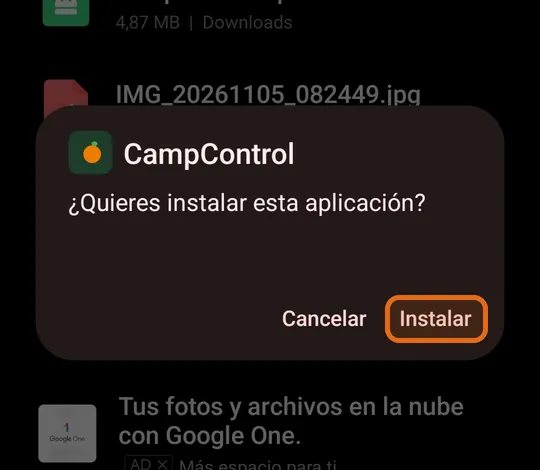
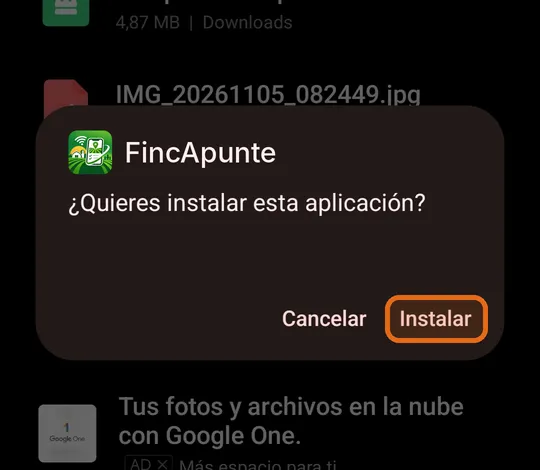
Web: guía de instalación con el nombre y el icono de FincApunte, y botón para volver a la web
- Capturas de instalación con el nombre FincApunte, el logo nuevo y la pantalla de entrada actual
- En la versión web de la app: «Volver a la web» en el menú, en la entrada y en el menú lateral del ordenador

Claude-Session: https://claude.ai/code/session_017KktMLWCZZJ4TYmkRk2J42

Changed region(s): [[0.1185, 0.2681, 0.563, 0.3872]]

diff --git a/web/index.html b/web/index.html
@@ -575,7 +575,7 @@ footer{border-top:1px solid var(--line);padding:48px 0 40px;margin-top:clamp(72p
       <ol class="guia" aria-label="Pasos para instalar FincApunte">
         <li>
           <figure><img src="img/instalar-paso-1.webp" width="540" height="920" loading="lazy" alt="Gestor de archivos, apartado Recientes, con el archivo de la app marcado"></figure>
-          <div><b>Abre el archivo descargado</b><span>Entra en el <strong>Gestor de archivos</strong>, ve a <strong>Recientes</strong> o <strong>Descargas</strong> y pulsa <strong>fincapunte.apk</strong> (en la captura sale con su nombre anterior).</span></div>
+          <div><b>Abre el archivo descargado</b><span>Entra en el <strong>Gestor de archivos</strong>, ve a <strong>Recientes</strong> o <strong>Descargas</strong> y pulsa <strong>fincapunte.apk</strong>.</span></div>
         </li>
         <li>
           <figure><img src="img/instalar-paso-2.webp" width="540" height="470" loading="lazy" alt="Ventana ¿Quieres instalar esta aplicación? con el botón Instalar marcado"></figure>
@@ -594,7 +594,7 @@ footer{border-top:1px solid var(--line);padding:48px 0 40px;margin-top:clamp(72p
           <div><b>Último aviso: cualquiera de los dos</b><span>En móviles <strong>Xiaomi, Redmi o Poco</strong> sale un aviso más de <strong>Mi Protect</strong>. Da igual que pulses <strong>Saltar</strong> o <strong>Analizar</strong>: las dos opciones terminan la instalación.</span></div>
         </li>
         <li>
-          <figure><img src="img/instalar-paso-6.webp" width="540" height="823" loading="lazy" alt="Pantalla de entrada de FincApunte con correo y contraseña"></figure>
+          <figure><img src="img/instalar-paso-6.webp" width="540" height="823" loading="lazy" alt="Pantalla de entrada de FincApunte con correo, contraseña y enlace a la política de privacidad"></figure>
           <div><b>Abre FincApunte y entra</b><span>Entra con tu correo y contraseña, o crea una cuenta. Acepta los permisos de cámara y ubicación para poder situar las fotos en el mapa.</span></div>
         </li>
       </ol>

diff --git a/www/js/escritorio.js b/www/js/escritorio.js
@@ -2,6 +2,14 @@
    Dentro de la APK no hace nada. */
 (() => {
   if (nativo()) return;
+
+  /* ---------- Volver a la web de presentación (solo en el navegador, en cualquier tamaño) ---------- */
+  const WEB = '../';
+  const flecha = '<svg viewBox="0 0 24 24" fill="none" stroke="currentColor" stroke-width="2.2" stroke-linecap="round" stroke-linejoin="round" aria-hidden="true"><path d="M15 18l-6-6 6-6"/></svg>';
+  // En el menú ⋮ (móvil y ordenador)
+  $('#mVer').insertAdjacentHTML('beforebegin', `<a class="mweb" href="${WEB}">${flecha}Volver a la web de FincApunte</a>`);
+  // En la pantalla de entrada
+  $('#bienv .bienv-in').insertAdjacentHTML('afterbegin', `<a class="bienv-web" href="${WEB}">${flecha}Volver a la web</a>`);
   const grande = matchMedia('(min-width: 1100px)');
   const esPC = () => document.body.classList.contains('pc');
 
@@ -28,6 +36,7 @@
   const copiarOcultos = () => enlaces.forEach(b => { b.hidden = $('#' + b.dataset.m).hidden; });
   new MutationObserver(copiarOcultos).observe($('#menu'), { subtree: true, attributes: true, attributeFilter: ['hidden'] });
   copiarOcultos();
+  nav.insertAdjacentHTML('beforeend', `<a class="pc-link pc-web" href="${WEB}">${flecha}Volver a la web</a>`);
   nav.insertAdjacentHTML('beforeend', `<div class="pc-pie"><span><kbd>/</kbd>Buscar incidencia</span><span><kbd>N</kbd>Nueva incidencia</span><span><kbd>Esc</kbd>Cerrar ventana</span></div>`);
 
   /* ---------- Resumen encima de la lista ---------- */

diff --git a/www/css/escritorio.css b/www/css/escritorio.css
@@ -92,3 +92,13 @@ body.pc .pc-ventajas{display:grid;grid-column:1;grid-row:3;gap:14px;margin:18px 
 .pc-ventajas li::before{content:"";width:10px;height:10px;margin-top:7px;border-radius:50%;background:var(--orange)}
 .pc-ventajas b{display:block}
 body.pc .cards > .empty{grid-column:1 / -1;padding:64px 10px}
+
+/* Volver a la web (solo navegador) */
+.mweb{display:flex;align-items:center;gap:8px;padding:13px 16px;border-top:1px solid var(--line);color:var(--ink);text-decoration:none;font-size:.95rem}
+.mweb:hover{background:var(--bg)}
+.mweb svg,.bienv-web svg,.pc-web svg{width:18px;height:18px;flex:none}
+.bienv-web{display:inline-flex;align-items:center;gap:6px;color:#fff;opacity:.85;text-decoration:none;font-size:.9rem;justify-self:start;margin-bottom:6px}
+.bienv-web:hover{opacity:1;text-decoration:underline}
+body.pc .bienv-web{position:absolute;top:28px;left:36px}
+body.pc .pc-web{margin-top:14px;text-decoration:none;align-items:center;gap:12px;padding:10px 12px;border-radius:10px;color:rgba(255,255,255,.78);font-size:.98rem}
+body.pc .pc-web:hover{background:rgba(255,255,255,.08);color:#fff}

diff --git a/www/sw.js b/www/sw.js
@@ -1,6 +1,6 @@
 // Guarda la app y los trozos de mapa ya vistos para poder usarla en el campo con poca cobertura.
 // Solo se guardan los archivos de la propia app y trozos de mapa medibles (nunca respuestas del servidor de datos).
-const APP = 'campcontrol-app-v9';
+const APP = 'campcontrol-app-v10';
 const TILES = 'campcontrol-mapas-v2';
 const MAX_TILES = 3000;
 const JS = ['util', 'finca', 'db', 'map', 'notif', 'incidencias', 'parcelas', 'tratamientos', 'recorrido', 'informes', 'backup', 'config', 'sync', 'cuenta', 'main', 'escritorio'];
